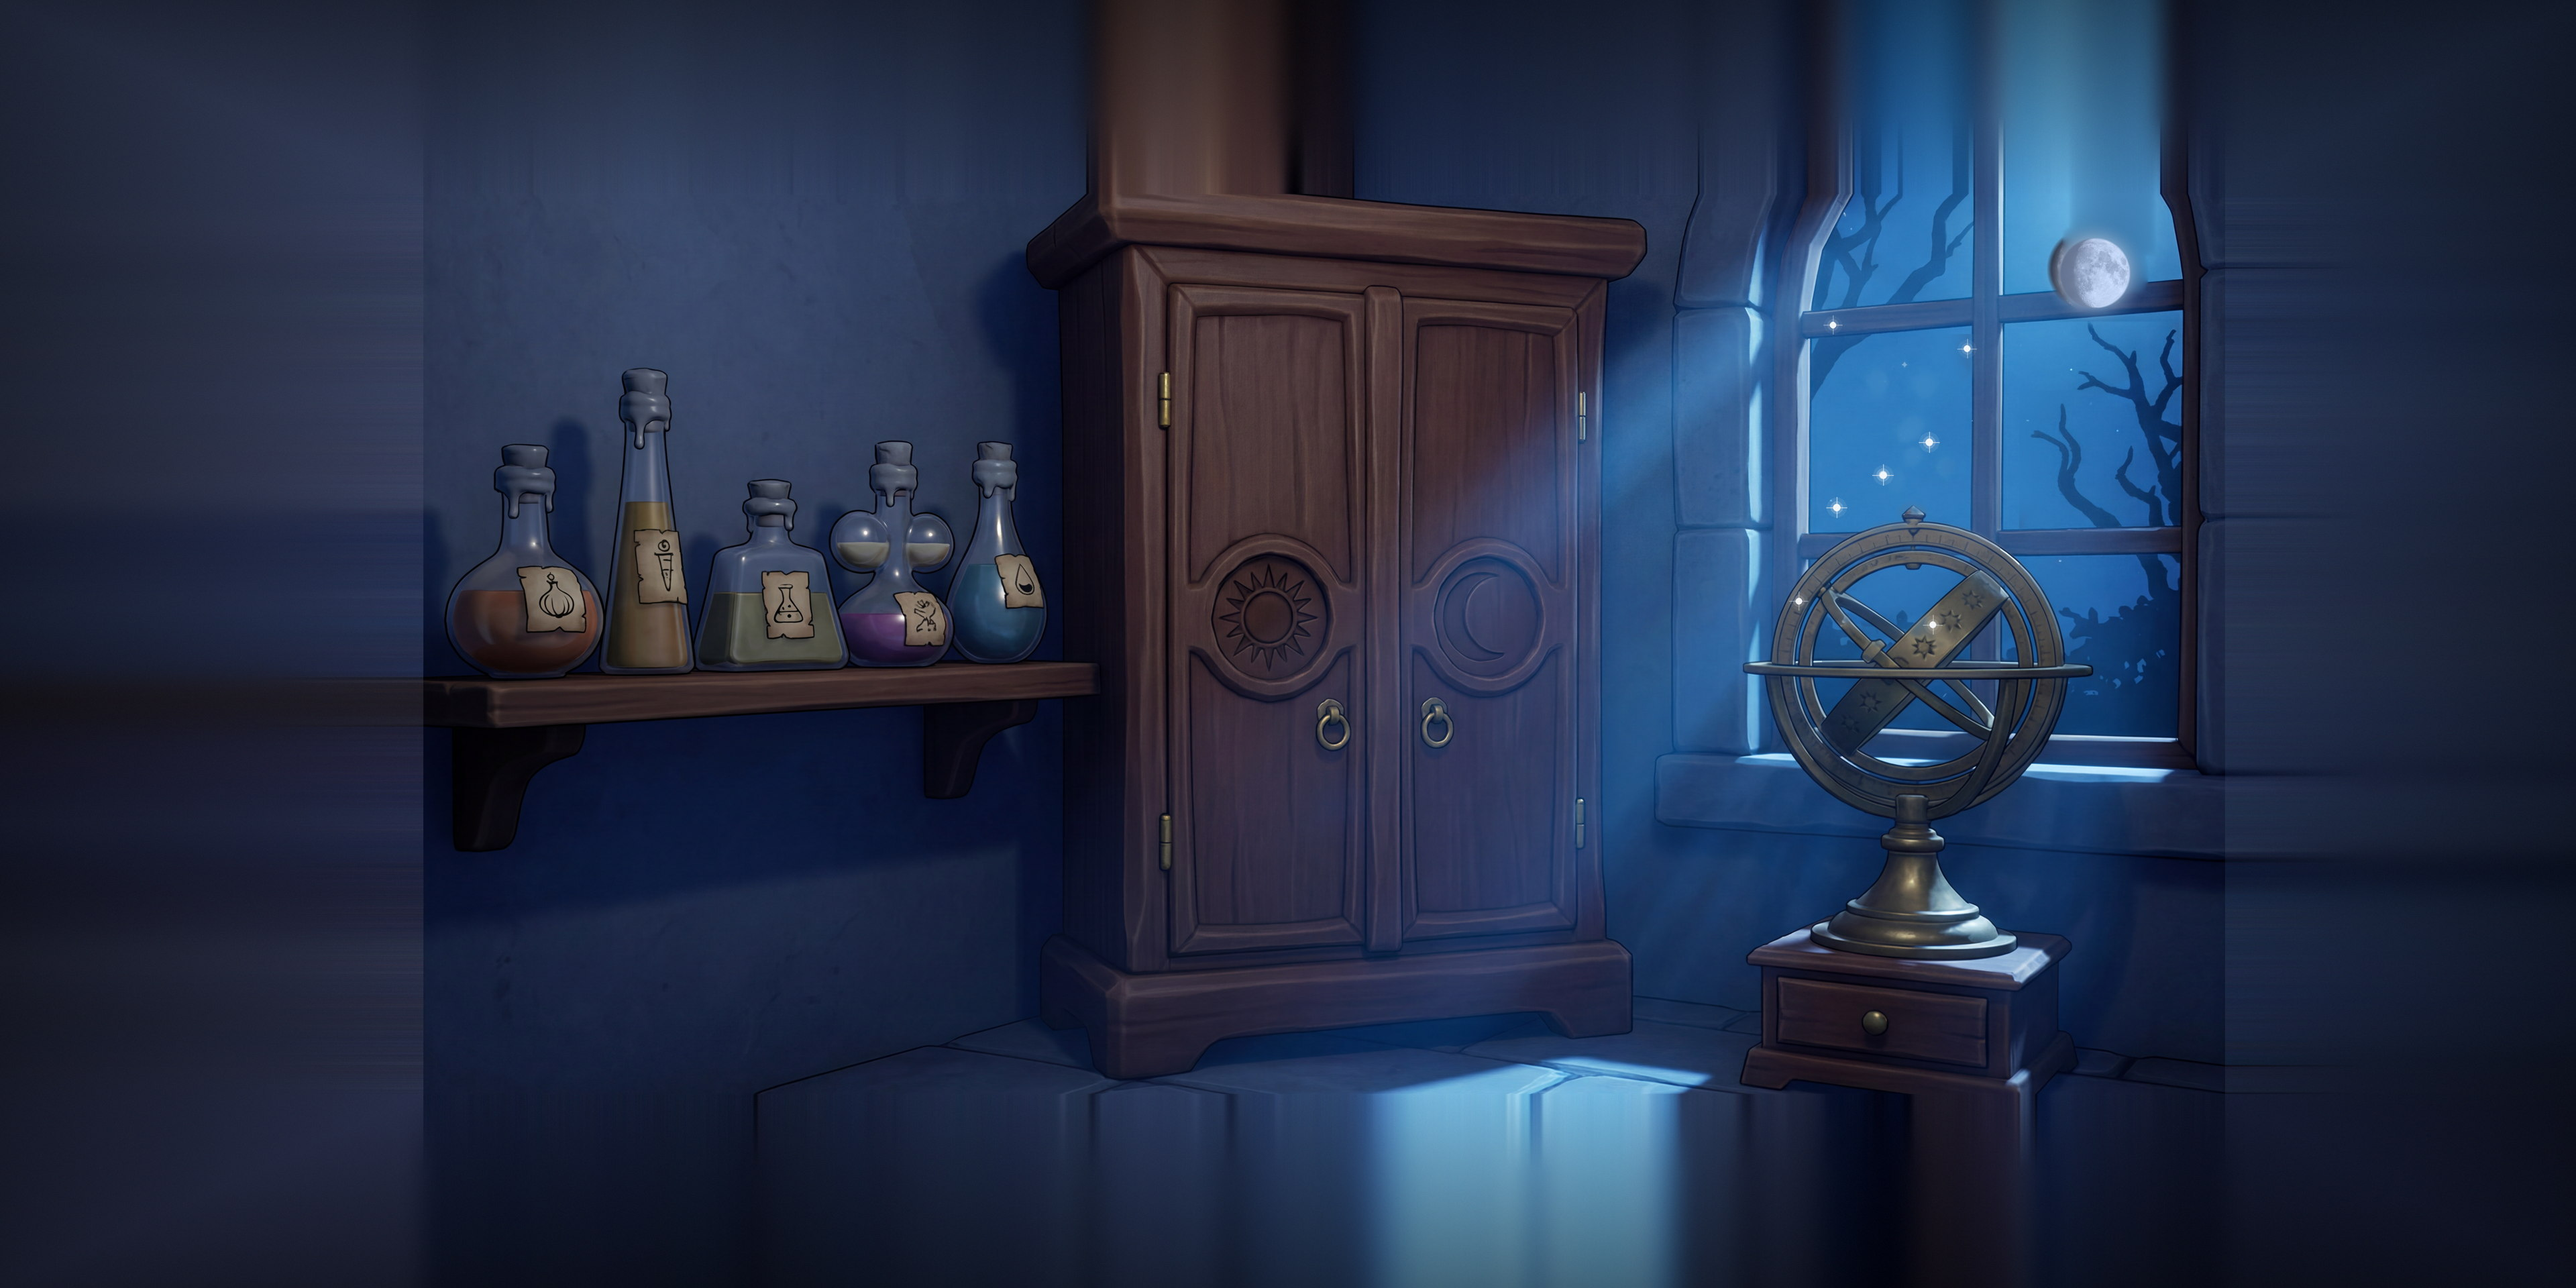
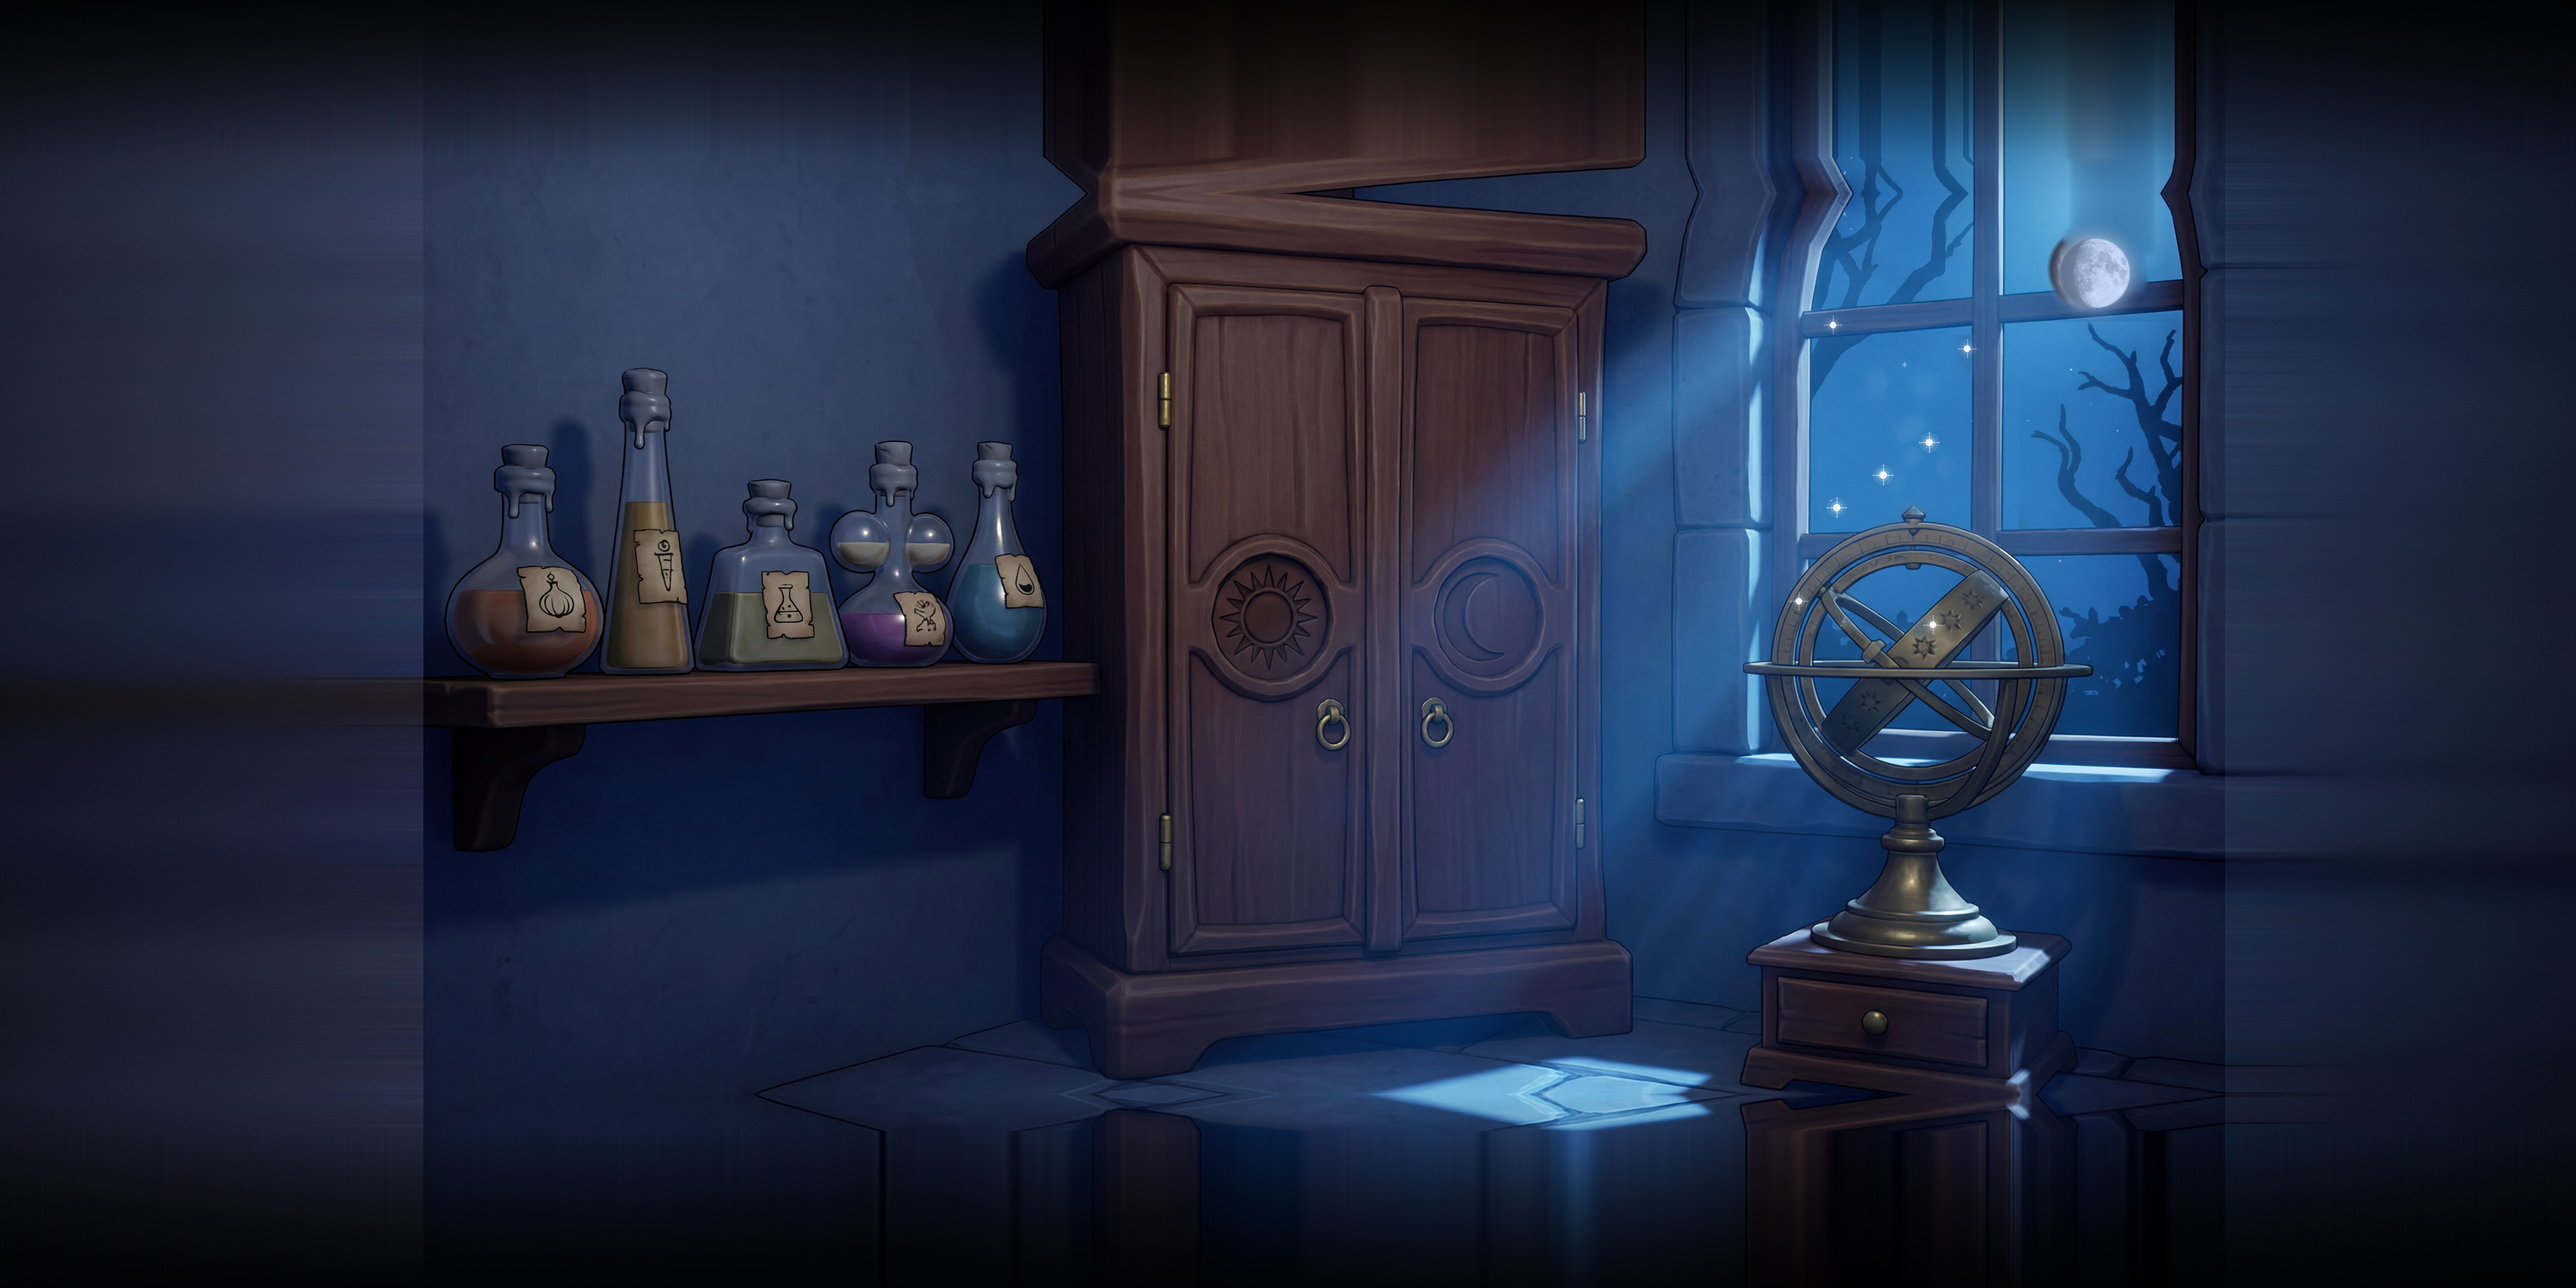
Round-6 JOIN: retire 4 legacy-source exceptions (R6-007) + restage bundle with 3 empty container plates
Legacy-exception retirement (R6-007 / Cluster D):
- Removed all 4 QA-B10-002 KNOWN_LEGACY_SOURCES entries (z2-bench-flame1/2/3,
  z2-cabinet-slots-seated). Asset-Gen re-rolled all four fresh in build-3 style at
  3840x1920 (committed 2026-07-14, post the 2026-07-08 vintage cutoff), so the vintage
  guard now enforces them like every other source. Both guards PASS with the exceptions
  gone (assert_no_stale_vintage emits zero exception notes; assert_no_nb_shadow clean).

Bundle restage (tools/build_game_assets.py):
- Staged 3 NEW emptied-container plates (Cluster A wide/close-up taken-state):
  * cu-cabinet-empty  -> z2/v-cabinet/cu-cabinet-empty.jpg (close-up base, added to
    PLAIN_PLATES; GameAssetLoader indexes it by basename)
  * ov-adrawer-empty  -> z2/v-cabinet/overlays/ov-adrawer-empty.jpg + overlays.json rect
  * ov-barrel-pried-empty -> z3/v-cellar/overlays/ov-barrel-pried-empty.jpg + overlays.json rect
  Both empty overlays added to the auto-diff OVERLAYS list; each self-located to the
  EXACT bbox of its filled counterpart (ov-adrawer-empty == ov-adrawer-open;
  ov-barrel-pried-empty == ov-barrel-pried), so they fully cover the filled region.
- Restaged the R6-007 re-rolled flame1/2/3 + slots-seated overlays, plus the ART track's
  R6-011 recipe spiral (5 CCW), R6-002 EARTH glyph (cu-flowerpot), and R6-004 band-swept
  bases across all 6 views (+ their recomputed derived overlays).
[…]

diff --git a/tools/build_game_assets.py b/tools/build_game_assets.py
@@ -133,12 +133,13 @@ BUILD3_VINTAGE_CUTOFF = "2026-07-08T00:00:00+04:00"
 # fails the build. Silent acceptance is exactly what let 19 stale files ship — this
 # list makes acceptance loud, reviewable and revocable.
 KNOWN_LEGACY_SOURCES = {
-    # QA-B10-002 (qa-report, build 10): legacy 2560 flame plates + slots-seated overlay,
-    # recorded by QA as accepted minor art residuals, re-roll deferred (non-blocking).
-    "z2/v-bench/z2-bench-flame1@3x.png": "QA-B10-002 accepted legacy; re-roll deferred",
-    "z2/v-bench/z2-bench-flame2@3x.png": "QA-B10-002 accepted legacy; re-roll deferred",
-    "z2/v-bench/z2-bench-flame3@3x.png": "QA-B10-002 accepted legacy; re-roll deferred",
-    "z2/v-cabinet/z2-cabinet-slots-seated@3x.png": "QA-B10-002 accepted legacy; re-roll deferred",
+    # (Round 6 / build 12, 2026-07-14) R6-007 un-defer: the 4 QA-B10-002 exceptions
+    # (z2-bench-flame1/2/3 + z2-cabinet-slots-seated) are RETIRED. These plates are
+    # player-visible in normal play (bellows pump), so "deferred re-roll" was wrong;
+    # Asset-Gen re-rolled all four fresh in build-3 style at 3840x1920 (committed
+    # 2026-07-14, post-cutoff), so the vintage guard now enforces them like everything
+    # else. See specs/levels/level-1/round6-routed-changelist.md Cluster D.
+    #
     # (build 11, 2026-07-13) cu-cabinet-open exception REMOVED: the 20th stale file was
     # re-delivered by Asset Gen as gapfill item 20 ($0 PIL crop of the z2-cabinet-open
     # wide), so its source is now build-3 canon and the vintage guard covers it normally.
@@ -593,6 +594,12 @@ PLAIN_PLATES = [
     "z2/v-bench/cu-mortar-blossom@3x.png",
     "z2/v-bench/cu-mortar-paste@3x.png",
     "z2/v-cabinet/z2-cabinet-base@3x.png",
+    # Round 6 R6-010 (Cluster A): clean EMPTY sun/moon cabinet close-up base. Once BOTH
+    # items are taken, ContainerCloseUpModel.plan swaps plan.base -> "cu-cabinet-empty"
+    # (partial state composites remaining icons over it). Delivered as a real close-up
+    # plate (2048x1536), staged verbatim like every other close-up so GameAssetLoader
+    # indexes it by basename "cu-cabinet-empty".
+    "z2/v-cabinet/cu-cabinet-empty@3x.png",
     "z2/v-cabinet/cu-slots-empty@3x.png",
     "z2/v-cabinet/cu-slots-seated@3x.png",
     "z2/v-cabinet/cu-potion-shelf@3x.png",
@@ -745,8 +752,19 @@ OVERLAYS = [
     # z2 cabinet (re-framed variants align)
     ("z2/v-cabinet", "z2-cabinet-base", "z2-cabinet-open",        "ov-cab-open",     False),
     ("z2/v-cabinet", "z2-cabinet-base", "z2-cabinet-drawer-open", "ov-adrawer-open", False),
+    # Round 6 R6-008-wide (Cluster A): emptied astrolabe-drawer WIDE overlay. Delivered as
+    # a fresh region-edit plate that removes the coin+crank from the open drawer; it aligns
+    # with the base like z2-cabinet-drawer-open, so we auto-diff/self-locate it exactly the
+    # same way. Covers the same drawer footprint as ov-adrawer-open, now empty. The Swift
+    # resolver (astrolabeDrawerOverlay) swaps to it once BOTH items are collected.
+    ("z2/v-cabinet", "z2-cabinet-base", "ov-adrawer-empty",       "ov-adrawer-empty", False),
     # z3 cellar — the R4-024 fix: one base, independent element overlays, all self-located
     ("z3/v-cellar", "z3-cellar-base", "z3-cellar-barrel-pried", "ov-barrel-pried", False),
+    # Round 6 R6-005 (Cluster A): emptied pried-barrel WIDE overlay (weight removed). Same
+    # pried-barrel footprint as ov-barrel-pried, now without the weight; auto-diff'd against
+    # the closed base like ov-barrel-pried. barrelOverlay() swaps to it once the weight is
+    # collected so the barrel never re-nails yet no longer shows the taken weight.
+    ("z3/v-cellar", "z3-cellar-base", "ov-barrel-pried-empty",  "ov-barrel-pried-empty", False),
     ("z3/v-cellar", "z3-cellar-base", "z3-cellar-drawer-open",  "ov-drawer-open",  False),
     ("z3/v-cellar", "z3-cellar-base", "z3-cellar-crank-fitted", "ov-crank-fitted", False),
     ("z3/v-cellar", "z3-cellar-base", "z3-cellar-mirror-d2",    "ov-mirror-d2",    False),
